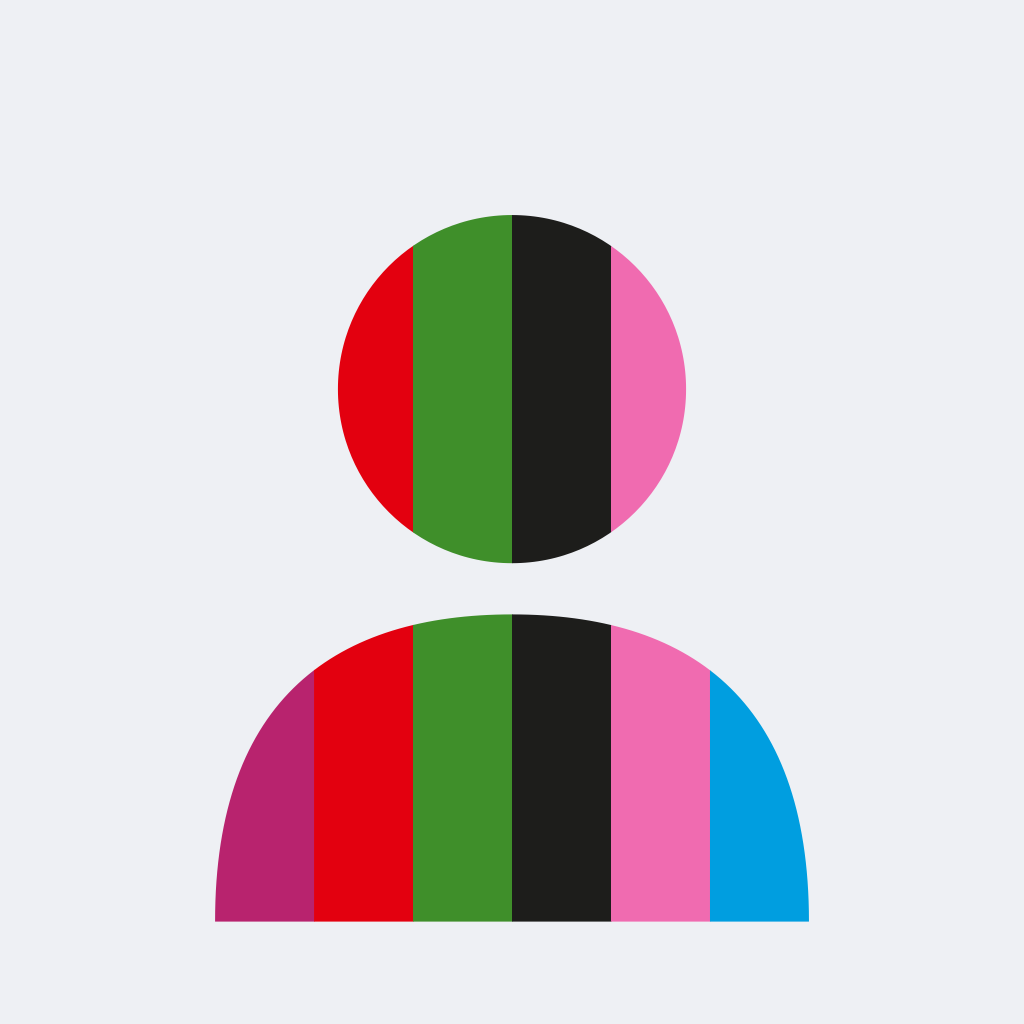
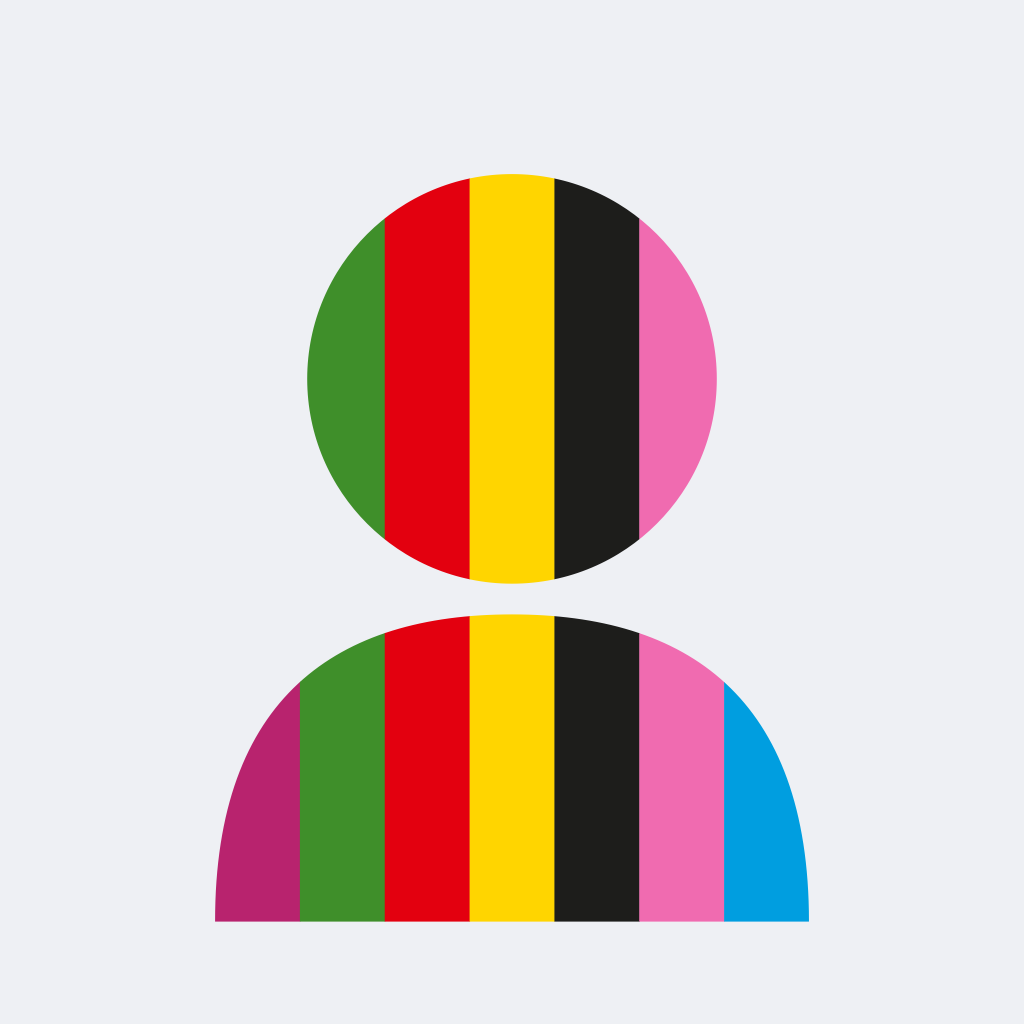
App-Symbol: sieben Streifen, FDP-Gelb, Grün im Kopf
Reihenfolge Linke, Grüne, SPD, FDP, Union, BSW, AfD; Kopf etwas größer,
damit Grün im Kopf sichtbar bleibt und Blau nur in den Schultern liegt.

Changed region(s): [[0.2812, 0.1562, 0.7188, 0.9062], [0.5938, 0.5938, 0.625, 0.9062], [0.6875, 0.6562, 0.7188, 0.9062]]

diff --git a/pipeline/appicon.swift b/pipeline/appicon.swift
@@ -1,7 +1,8 @@
 // Zeichnet das App-Symbol „Spektrum-Kopf“ als PNG (ohne abgerundete Ecken, die setzt iOS selbst).
 //
-// Kopf und Schultern aus sechs gleich breiten Streifen, von links nach rechts:
-// Linke, SPD, Grüne, Union, BSW, AfD. Die äußeren Streifen liegen nur in den Schultern.
+// Kopf und Schultern aus sieben gleich breiten Streifen, von links nach rechts:
+// Linke, Grüne, SPD, FDP, Union, BSW, AfD. Der Kopf ist so groß, dass Grün noch im Kopf
+// zu sehen ist, das AfD-Blau ganz rechts aber nur in den Schultern liegt.
 //
 // Aufruf: swiftc -O pipeline/appicon.swift -o pipeline/appicon
 //         pipeline/appicon <ausgabe.png> [größe]   (Standard 1024)
@@ -20,7 +21,7 @@ func rgb(_ hex: UInt32) -> CGColor {
 }
 
 let background = rgb(0xEEF0F4)
-let stripes: [UInt32] = [0xB8236E, 0xE3000F, 0x3F8F2A, 0x1D1D1B, 0xF06BB0, 0x009EE0]  // Linke, SPD, Grüne, Union, BSW, AfD
+let stripes: [UInt32] = [0xB8236E, 0x3F8F2A, 0xE3000F, 0xFFD500, 0x1D1D1B, 0xF06BB0, 0x009EE0]  // Linke, Grüne, SPD, FDP, Union, BSW, AfD
 
 let cs = CGColorSpace(name: CGColorSpace.sRGB)!
 let ctx = CGContext(data: nil, width: size, height: size, bitsPerComponent: 8, bytesPerRow: 0, space: cs,
@@ -32,7 +33,8 @@ ctx.setFillColor(background); ctx.fill(CGRect(x: 0, y: 0, width: 100, height: 10
 
 // Kopf und Schultern als Maske
 let bust = CGMutablePath()
-bust.addEllipse(in: CGRect(x: 33, y: 21, width: 34, height: 34))
+// Kopf: x 30 bis 70; die Streifen sind je 58/7 ≈ 8,3 breit, Grün reicht bis 37,6, Blau beginnt bei 70,7
+bust.addEllipse(in: CGRect(x: 30, y: 17, width: 40, height: 40))
 bust.move(to: CGPoint(x: 21, y: 90))
 bust.addCurve(to: CGPoint(x: 50, y: 60), control1: CGPoint(x: 21, y: 68), control2: CGPoint(x: 33, y: 60))
 bust.addCurve(to: CGPoint(x: 79, y: 90), control1: CGPoint(x: 67, y: 60), control2: CGPoint(x: 79, y: 68))

diff --git a/README.md b/README.md
@@ -15,7 +15,7 @@ Wie viele Gesichter es pro Ebene und Partei gibt und wie vollständig die Parlam
 
 ## App-Symbol
 
-„Spektrum-Kopf“: Kopf und Schultern aus sechs gleich breiten Streifen, von links nach rechts Linke, SPD, Grüne, Union, BSW, AfD. Die äußeren Streifen liegen nur in den Schultern. Erzeugt mit `pipeline/appicon.swift`, Vorlage in `docs/brand/app-symbol-1024.png`.
+„Spektrum-Kopf“: Kopf und Schultern aus sieben gleich breiten Streifen, von links nach rechts Linke, Grüne, SPD, FDP, Union, BSW, AfD. Grün ist noch im Kopf zu sehen, das AfD-Blau ganz rechts liegt nur in den Schultern, die Linke ganz links ebenfalls. Erzeugt mit `pipeline/appicon.swift`, Vorlage in `docs/brand/app-symbol-1024.png`.
 
 ## Herkunft der Daten
 
